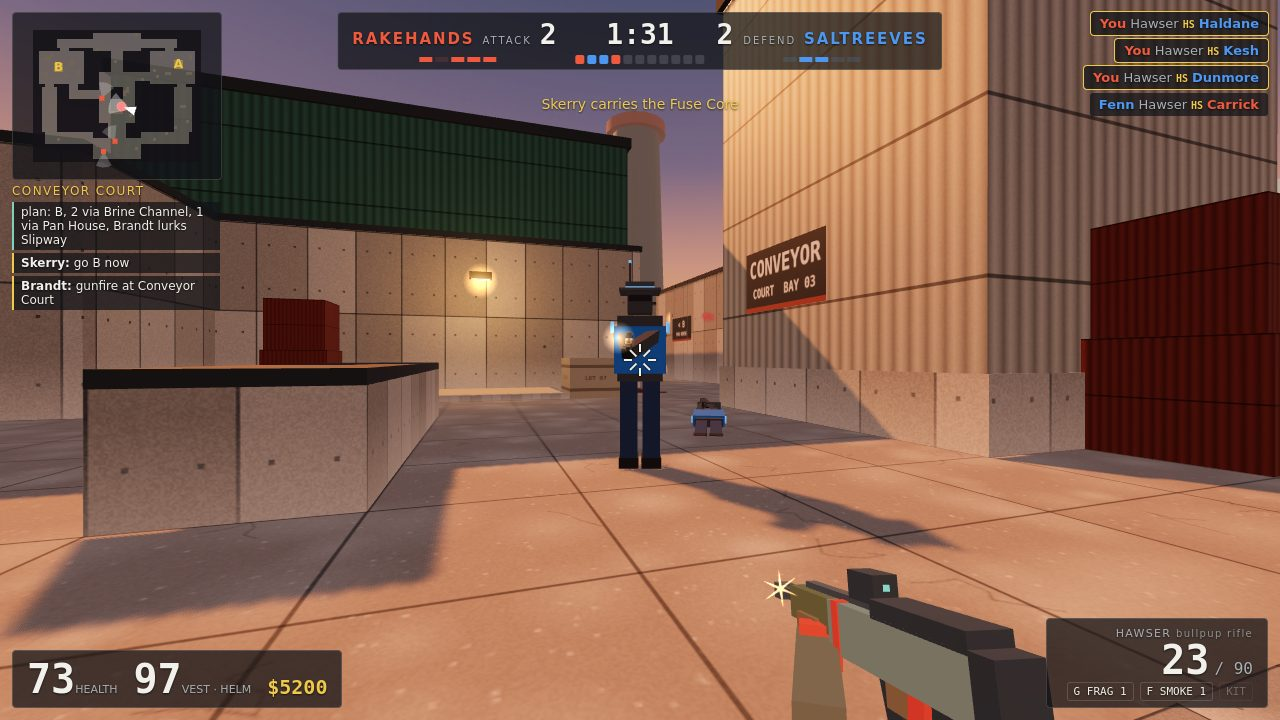
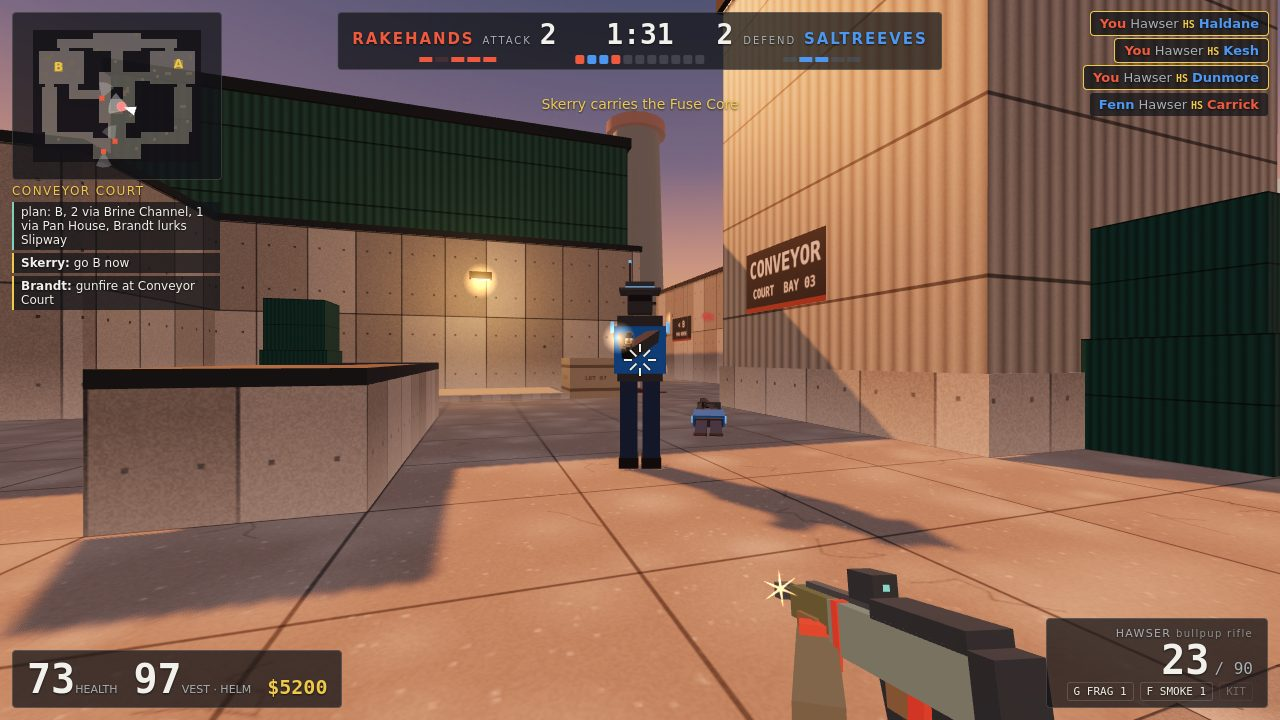
A cool accent in the court: its containers and sign stripe in weathered teal
palette.js lanes.court accent rust -> the teal the slipway uses (byte-neutral). Retake: the
cover's right-edge stack reads teal against the peach cladding, the cobalt Saltreeve still
stands out at the centre, the frame is no busier. Fresh screenshots.

Changed region(s): [[0.8438, 0.2444, 1.0, 0.6722], [0.1875, 0.3972, 0.2812, 0.5194]]

diff --git a/game/src/render/palette.js b/game/src/render/palette.js
@@ -8,7 +8,7 @@ export const PALETTE = {
   haze: '#cfa48c', sun: '#ff9a52', skyLight: '#c4b4b8', groundLight: '#80654c',
   ground: '#a89c8c', concrete: '#aeaaa0', steel: '#56626b', brine: '#ab9693', lamp: '#ffb760', paint: '#efc94c',
   // Per lane: cladding tint, then its accent (containers, sign stripes): rust or weathered teal.
-  lanes: { hall: ['#9a5a45', '#56706a'], tanks: ['#d2cfc6', '#9a4a32'], channel: ['#4f8576', '#a24f33'], slip: ['#8c4c38', '#2f7470'], court: ['#c4c0b6', '#93472f'] },
+  lanes: { hall: ['#9a5a45', '#56706a'], tanks: ['#d2cfc6', '#9a4a32'], channel: ['#4f8576', '#a24f33'], slip: ['#8c4c38', '#2f7470'], court: ['#c4c0b6', '#2f7470'] },
 };
 
 export const std = (o) => new THREE.MeshStandardMaterial({ roughness: 0.85, ...o });
